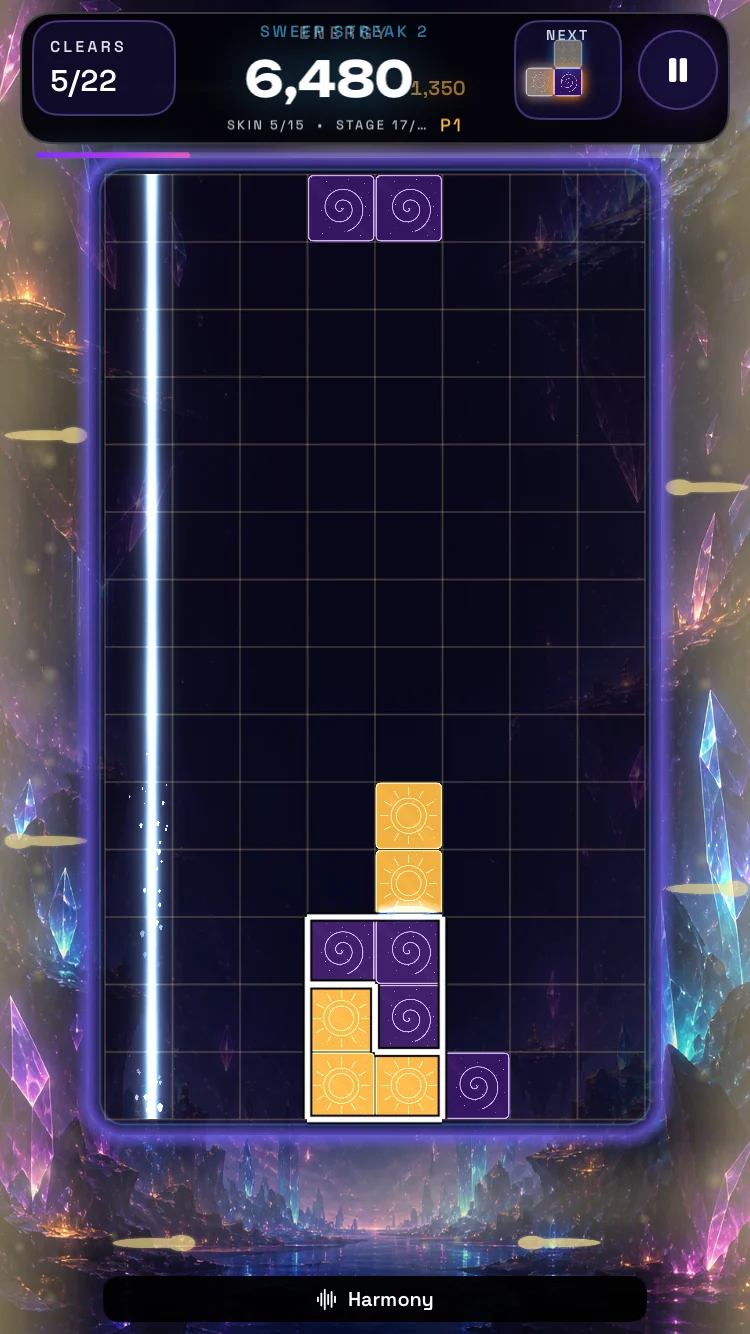
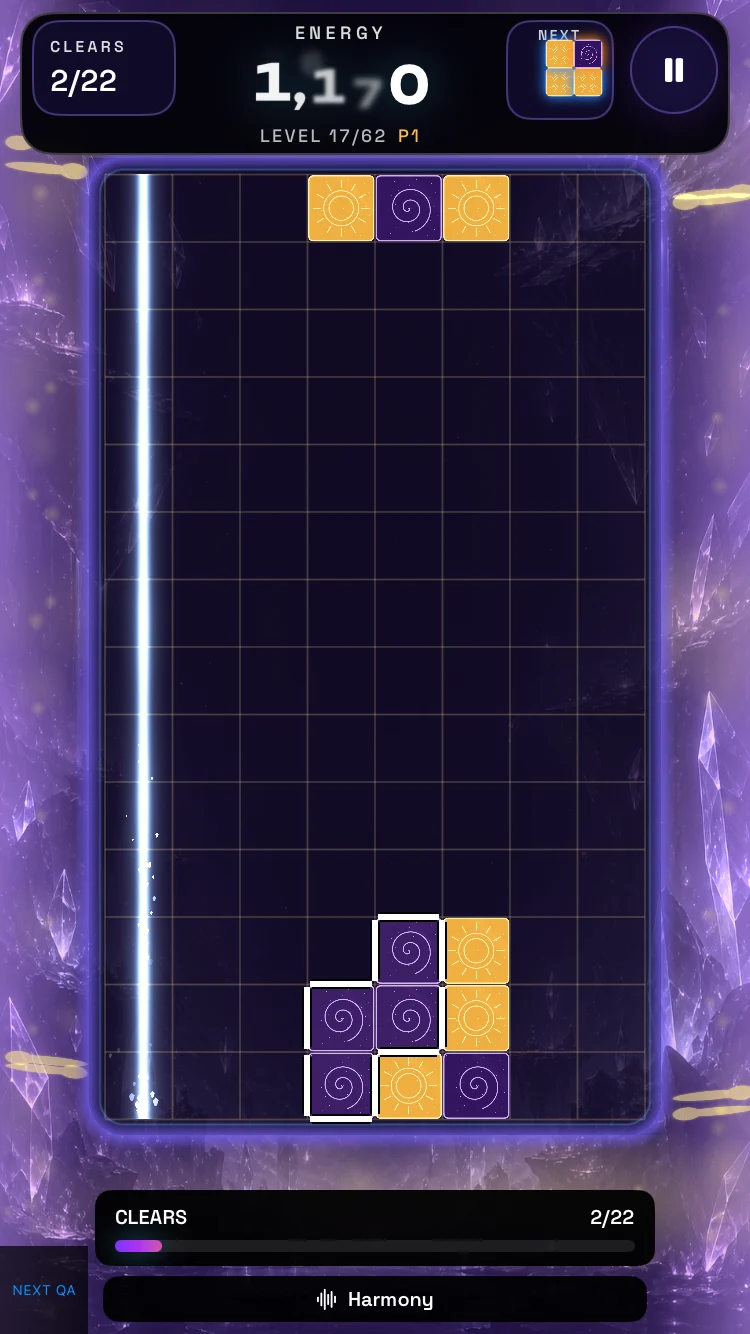
Refresh Prism Shift gallery from current native phone skins

diff --git a/microsites/prismshift/index.html b/microsites/prismshift/index.html
@@ -25,19 +25,19 @@
         <div class="actions"><a class="primary" href="#play">Watch the game</a><a href="#worlds">Explore the fifteen skins</a></div>
         <p class="release">Development builds are being tested. A public download is not available yet.</p>
       </div>
-      <figure class="hero-game"><img src="assets/awakening.webp" alt="Actual Prism Shift gameplay: amber and lavender crystals with the glowing Pulse Line sweeping across a crystal world." width="750" height="1334"><figcaption>Awakening · Actual development gameplay</figcaption></figure>
+      <figure class="hero-game"><img src="assets/awakening.webp?v=4223abdd2bf4" alt="Actual Prism Shift gameplay: amber and lavender crystals with the glowing Pulse Line sweeping across a crystal world." width="750" height="1334"><figcaption>Awakening · Actual development gameplay</figcaption></figure>
     </section>
     <section id="play" class="play" aria-labelledby="play-title">
       <div class="section-heading"><h2 id="play-title">Make a match.<br>Make it matter.</h2><p>Three or more crystals of the same type, connected side to side, charge a network. They wait for the Pulse Line. Build another before the sweep arrives, and bank a bigger payoff.</p></div>
       <div class="gameplay">
-        <video controls playsinline preload="metadata" poster="assets/awakening.webp" aria-label="Prism Shift Awakening development gameplay"><source src="assets/awakening-gameplay-soundtrack.mp4?v=3cc62348732d" type="video/mp4">Your browser cannot play this video. <a href="assets/awakening-gameplay-soundtrack.mp4?v=3cc62348732d">Open the gameplay recording.</a></video>
+        <video controls playsinline preload="metadata" poster="assets/awakening.webp?v=4223abdd2bf4" aria-label="Prism Shift Awakening development gameplay"><source src="assets/awakening-gameplay-soundtrack.mp4?v=3cc62348732d" type="video/mp4">Your browser cannot play this video. <a href="assets/awakening-gameplay-soundtrack.mp4?v=3cc62348732d">Open the gameplay recording.</a></video>
         <div class="gameplay-copy"><h3>The sweep is your instrument.</h3><p>Rotations, drops, and clears bring light and sound into the world. Each skin pairs its own crystal material with a soundtrack, and music fades into the next as the journey progresses.</p><p>A Core block activates inside a valid match, reaching through the connected same-type chain. Isolated blocks elsewhere stay on the board.</p><p class="caption">Awakening · Press Play to hear the game’s soundtrack. Music at the game’s default level, added to the October 13 development footage. This preview does not include live gameplay sound effects.</p></div>
       </div>
     </section>
     <section id="worlds" aria-labelledby="world-title">
       <div class="section-heading"><h2 id="world-title">Fifteen faces<br>of the light.</h2><p>From frosted dawn glass to electric circuits, paper folds, and stained glass. These are captures from the actual game, with the board and crystal materials visible.</p></div>
-      <p class="caption">Current development captures · Seeded QA play with the tide suppressed. Captions name crystal materials; in-game labels may name campaign tracks. Scroll horizontally to see all fifteen.</p>
-      <p><a href="assets/all-15-skins.webp">Open all fifteen skins in one image</a></p>
+      <p class="caption">October 15 development captures · Seeded QA play with the tide suppressed. Captions name crystal materials; in-game labels may name campaign tracks. Scroll horizontally to see all fifteen.</p>
+      <p><a href="assets/all-15-skins.webp?v=4223abdd2bf4">Open all fifteen skins in one image</a></p>
       <noscript><p>The individual gallery uses JavaScript. The combined image above contains every skin.</p></noscript>
       <div id="skin-strip" class="skin-strip" tabindex="0" role="region" aria-label="All fifteen crystal skins"></div>
     </section>
@@ -48,6 +48,6 @@
     <section class="closing"><img src="assets/prism.png" alt="" width="110" height="150"><h2>The light awaits.</h2><p>Prism Shift is a non-commercial homebrew project by Ian Trimble.</p><a href="https://remnantsecurity.com/">More from Remnant Security</a></section>
   </main>
   <footer><span>PRISM SHIFT</span><span>iPhone · Apple TV</span><a href="https://prismshift.remnantsecurity.com/support.html">Support</a><a href="https://prismshift.remnantsecurity.com/privacy.html">Privacy</a><a href="#main">Back to top</a></footer>
-  <script src="skins.js" defer></script>
+  <script src="skins.js?v=4223abdd2bf4" defer></script>
 </body>
 </html>

diff --git a/microsites/prismshift/skins.js b/microsites/prismshift/skins.js
@@ -12,7 +12,7 @@ const strip = document.getElementById('skin-strip');
 for (const [name, material, filename] of skins) {
   const figure = document.createElement('figure');
   const image = document.createElement('img');
-  image.src = `assets/skins/${filename}.webp`;
+  image.src = `assets/skins/${filename}.webp?v=4223abdd2bf4`;
   image.alt = `Actual ${name} crystal-skin gameplay — ${material}.`;
   image.width = 750;
   image.height = 1334;

diff --git a/docs/prismshift-site/SKIN_GALLERY_2026-10-15.md b/docs/prismshift-site/SKIN_GALLERY_2026-10-15.md
@@ -1,0 +1,11 @@
+# Current native skin gallery — October15
+
+The approved static layout now uses fresh750×1334 native phone captures at game revision3ba45b8, including authored per-skin painting grades. All15 runtime readiness IDs, installed/tested-build hashes, image uniqueness and dimensions pass. Pulse was retaken at1.2s QA cadence because its first sample caught a transient clear flash; original retained. Actual pixels were only WebP-encoded at quality86; the combined2408×2850 atlas uniformly scales original frames and labels outside them. Public provenance omits private simulator-container paths.
+
+Changes:15 gallery images, Awakening hero/poster, combined atlas, capture provenance, dated gallery caption and hash-based image/JS cache tokens. CSS, layout, fonts, game footage/AAC, soundtrack provenance, support/privacy and publishing configuration remain identical to baseline. Website version4223abdd2bf4. Artwork is still three original paintings with fifteen grades/materials; this is not fifteen new paintings or native4K art.
+
+Backup of full repositories and site files: `/Users/ian/backups/prismshift-web-current-skins/20261015-102916/`. Baseline24 served assets match live/publisher and all source-owned counterparts. Publisher-owned support/privacy/CNAME are intentionally absent from the maintained microsite. An initial baseline checker incorrectly assumed those were source-owned; another incorrectly requested CNAME as a served URL. Corrected checks distinguish ownership/configuration and pass before edits.
+
+Static preflight has20 expected changed served files and no additions/removals. Maintained source/publisher bytes match. `node --check skins.js`, source lint and configured apex build pass (17565 crawler-visible characters/99links); no apex output is published. Local native-browser desktop/mobile checks:15 cards, all15lazy images load after horizontal scrolling, current cache tokens, native750×1334 images, valid combined atlas link and390px page without viewport overflow. Video remains paused/no autoplay at its existing soundtrack source. The browser's temporary viewport override was reset.
+
+Game capture: `/Users/ian/projects/prismshift/docs/verification/oct15/phone-skin-atlas-graded/manifest.json`. Verification/rollback details are recorded in the game repo at `docs/verification/oct15/website-current-gallery/README.md` after publication. Physical-device hold and leave-Qix-running instruction remain in effect. Native phone capture app stopped after completion. Musical/physical/performance acceptance and social share card remain open.
